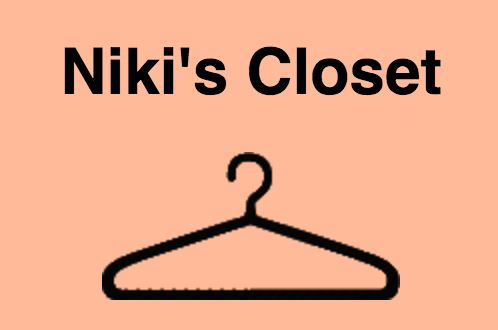
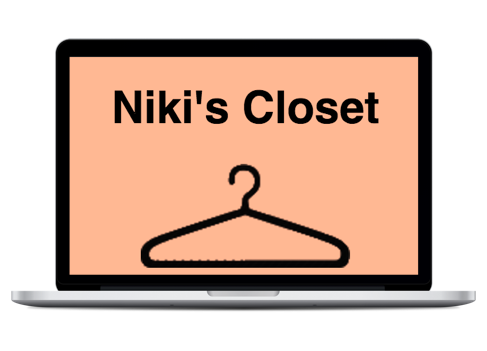
replace images with laptop mockups

diff --git a/css/styles.css b/css/styles.css
@@ -84,7 +84,8 @@ table {
   background-size: cover;
   background-position: center center;
   max-height: 400px;
-  max-width: 400px; }
+  max-width: 400px;
+  margin: 20px; }
 
 .itemBox1,
 .itemBox2,
@@ -96,8 +97,7 @@ table {
   .itemBox1 .projectImage,
   .itemBox2 .projectImage,
   .itemBox3 .projectImage {
-    max-width: 600px;
-    max-height: 200px; }
+    min-width: 200px; }
 
 .item {
   margin-top: 50px;

diff --git a/scss/layout/_grid.scss b/scss/layout/_grid.scss
@@ -20,6 +20,7 @@
   background-position:center center;
   max-height:400px;
   max-width:400px;
+  margin: 20px;
 }
 .itemBox1,
 .itemBox2,
@@ -29,8 +30,8 @@
   align-content: center;
   justify-content: center;
   .projectImage {
-    max-width: 600px;
-    max-height: 200px;
+    min-width: 200px;
+    // max-height: 200px;
   }
 }
 
